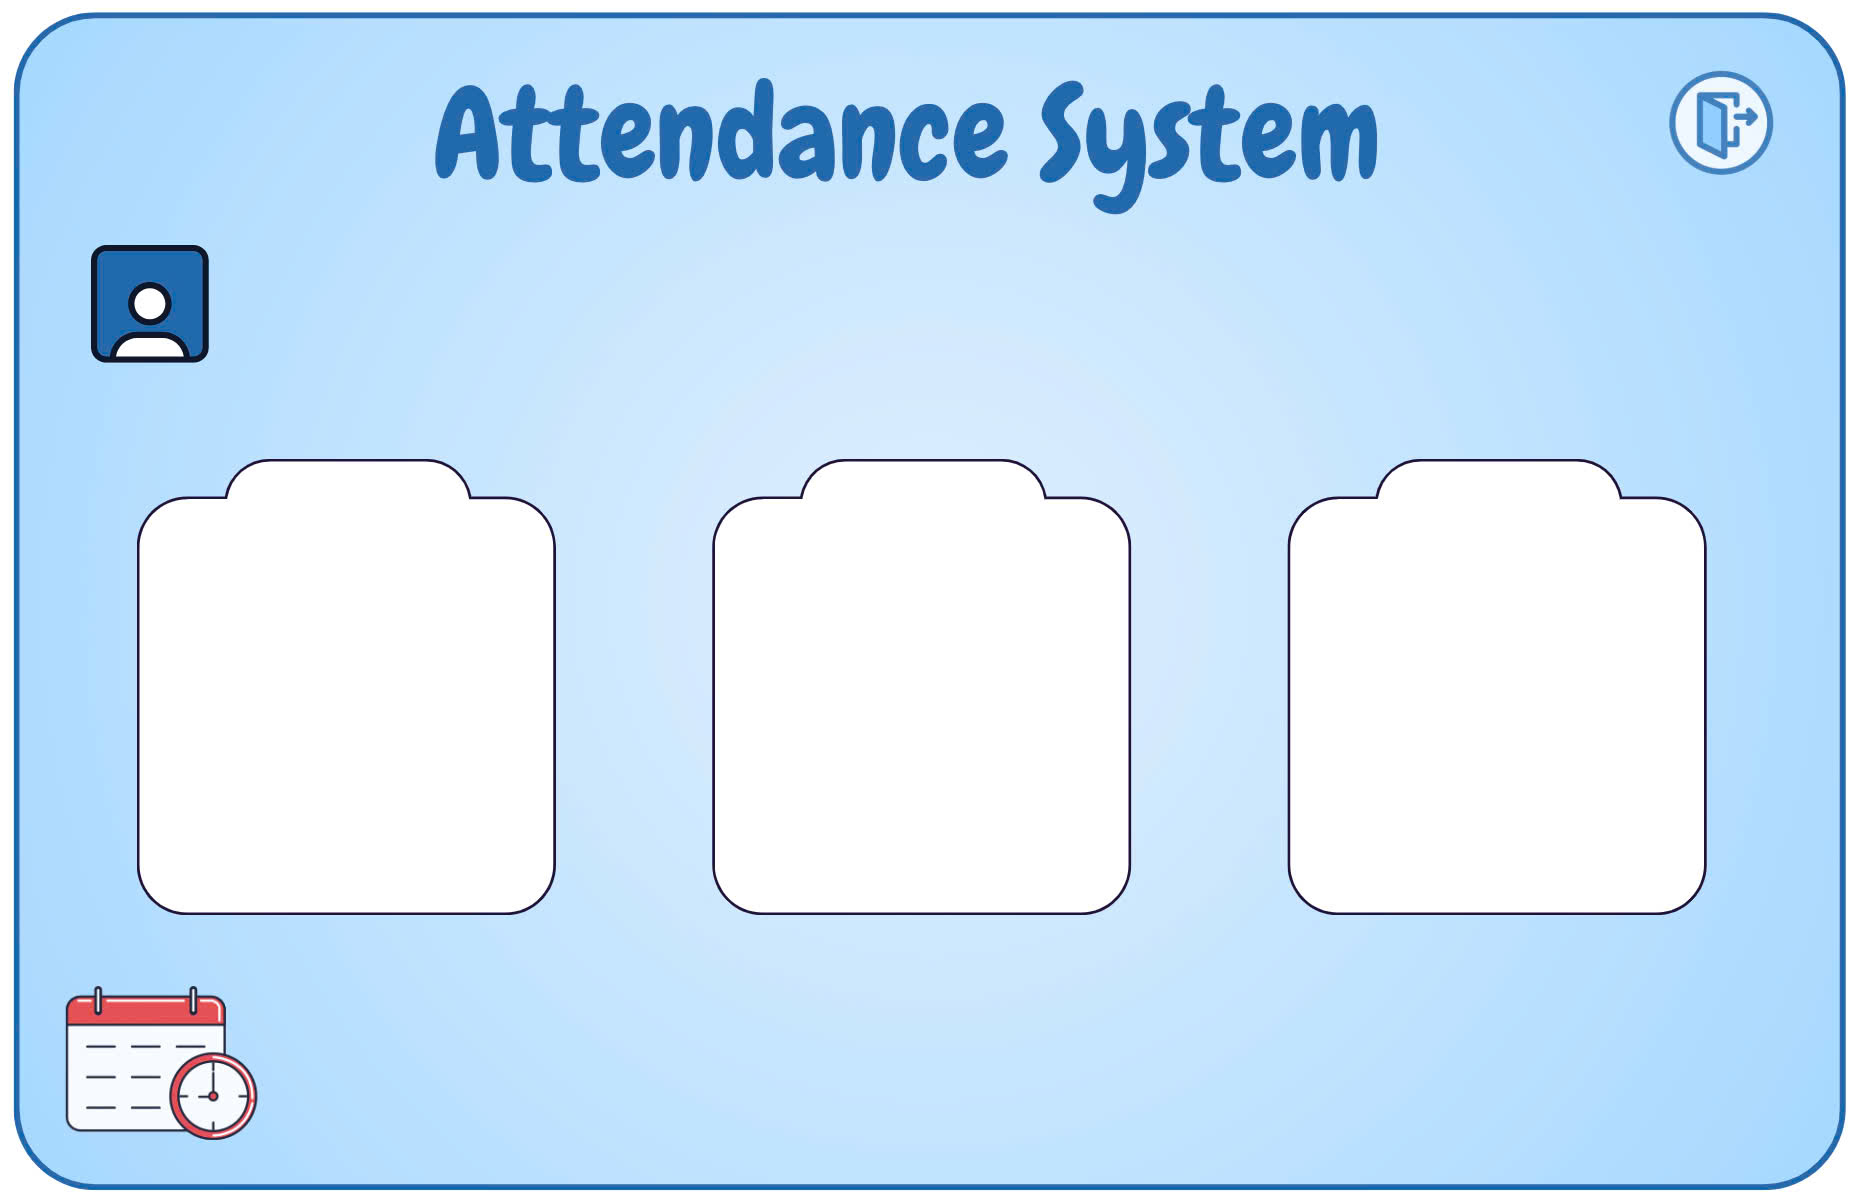
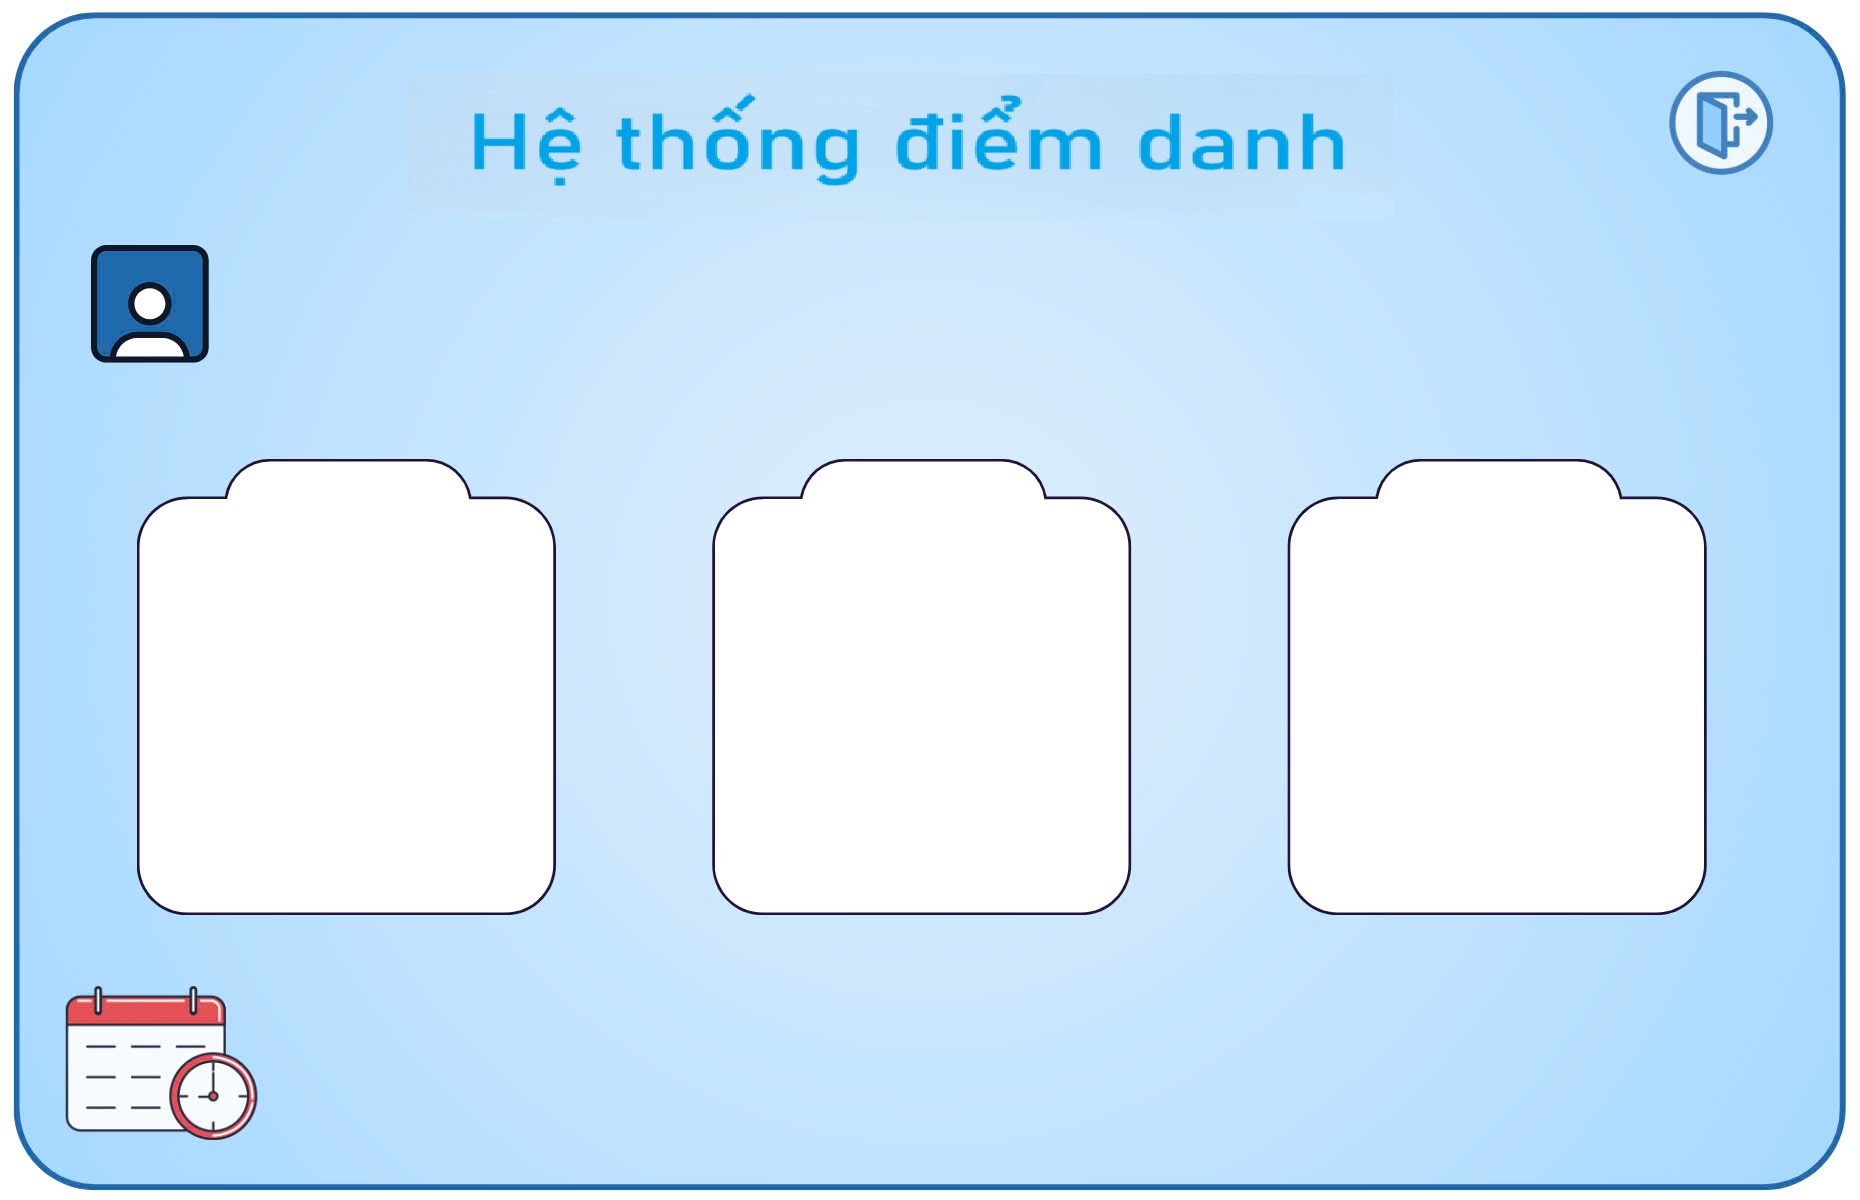
fix: convert UI to Vietnamese

Changed region(s): [[0.2183, 0.0617, 0.7484, 0.185]]

diff --git a/screen/home/home_teacher_screen.py b/screen/home/home_teacher_screen.py
@@ -3,7 +3,7 @@ from datetime import datetime
 from tkinter import *
 from PIL import ImageTk, Image
 from screen.student_view.student_view_screen import student_view
-from screen.manage_attendance.manage_attendance_abc import attendance
+from screen.manage_attendance.manage_attendance_screen1_3d_drawYellow import  attendance
 from screen.manage_attendance.statistic_screen import statisticExcel
 
 from screen.train_model.train_model_from_images_screen import traindata
@@ -20,7 +20,7 @@ class HomeScreenTeacher:
         self.teacher_name = self.get_teacher_name(self.teacher_id)
 
         self.root.geometry('925x600')
-        self.root.title('Facial Recognition Attendance System')
+        self.root.title('Hệ thống điểm danh nhận dạng khuôn mặt 3D')
 
         today = strftime('%d-%m-%Y')
 
@@ -50,7 +50,7 @@ class HomeScreenTeacher:
         self.update_date(lbl_date)
 
         #=== logout
-        btn_logout = Button(self.root, text="Log out", command=self.logout, font=("yu gothic ui", 20, "bold"), bg="white", fg="#57a1f8", borderwidth=0)
+        btn_logout = Button(self.root, text="Thoát", command=self.logout, font=("yu gothic ui", 20, "bold"), bg="white", fg="#57a1f8", borderwidth=0)
         btn_logout.place(x=817, y=92, width=90, height=23)
 
         #======= body
@@ -64,7 +64,7 @@ class HomeScreenTeacher:
         img_student = img_student.resize((150, 150), Image.Resampling.LANCZOS)
 
         self.img_studenttk = ImageTk.PhotoImage(img_student)
-        btn_student = Button(self.root, text="Student List", font=("yu gothic ui", 14, "bold"), command=lambda: self.student_view(self.root),
+        btn_student = Button(self.root, text="Danh sách sinh viên", font=("yu gothic ui", 14, "bold"), command=lambda: self.student_view(self.root),
                              image=self.img_studenttk, activebackground="white", bg="white", borderwidth=0,
                              compound="top")
         btn_student.place(x=73, y=255, width=194, height=194)
@@ -81,7 +81,7 @@ class HomeScreenTeacher:
         img_recognize = img_recognize.resize((140, 140), Image.Resampling.LANCZOS)
 
         self.img_recognizetk = ImageTk.PhotoImage(img_recognize)
-        btn_recognize = Button(self.root, text="Attendance", font=("yu gothic ui", 14, "bold"), command=self.attendance,
+        btn_recognize = Button(self.root, text="Điểm danh", font=("yu gothic ui", 14, "bold"), command=self.attendance,
                                image=self.img_recognizetk, activebackground="white", bg="white", borderwidth=0,
                                compound="top")
         btn_recognize.place(x=361, y=255, width=194, height=194)
@@ -98,7 +98,7 @@ class HomeScreenTeacher:
         img_report = img_report.resize((140, 140), Image.Resampling.LANCZOS)
 
         self.img_reporttk = ImageTk.PhotoImage(img_report)
-        btn_report = Button(self.root, text="Statistic", font=("yu gothic ui", 14, "bold"), command=self.open_statistic_window,
+        btn_report = Button(self.root, text="Thống kê", font=("yu gothic ui", 14, "bold"), command=self.open_statistic_window,
                             image=self.img_reporttk, activebackground="white", bg="white", borderwidth=0,
                             compound="top")
         btn_report.place(x=649, y=255, width=194, height=194)

diff --git a/screen/home/home_student_screen.py b/screen/home/home_student_screen.py
@@ -17,7 +17,7 @@ class HomeScreenStudent:
         self.student_name = self.get_student_name(self.student_id)
 
         self.root.geometry('925x600')
-        self.root.title('Facial Recognition Attendance System')
+        self.root.title('Hệ thống điểm danh nhận dạng khuôn mặt 3D')
 
         today = strftime('%d-%m-%Y')
 
@@ -47,7 +47,7 @@ class HomeScreenStudent:
         self.update_date(lbl_date)
 
         #=== logout
-        btn_logout = Button(self.root, text="Log out", command=self.logout, font=("yu gothic ui", 20, "bold"), bg="white", fg="#57a1f8", borderwidth=0)
+        btn_logout = Button(self.root, text="Thoát", command=self.logout, font=("yu gothic ui", 20, "bold"), bg="white", fg="#57a1f8", borderwidth=0)
         btn_logout.place(x=817, y=92, width=90, height=23)
 
         #======= body
@@ -61,7 +61,7 @@ class HomeScreenStudent:
         img_student = img_student.resize((150, 140), Image.Resampling.LANCZOS)
 
         self.img_studenttk = ImageTk.PhotoImage(img_student)
-        btn_student = Button(self.root, text="Student", font=("yu gothic ui", 14, "bold"), command=lambda: self.student_view(self.root),
+        btn_student = Button(self.root, text="Danh sách sinh viên", font=("yu gothic ui", 14, "bold"), command=lambda: self.student_view(self.root),
                              image=self.img_studenttk, activebackground="white", bg="white", borderwidth=0,
                              compound="top")
         btn_student.place(x=73, y=255, width=194, height=194)
@@ -78,7 +78,7 @@ class HomeScreenStudent:
         img_authentication = img_authentication.resize((140, 140), Image.Resampling.LANCZOS)
 
         self.img_authenticationtk = ImageTk.PhotoImage(img_authentication)
-        btn_authentication = Button(self.root, text="Authentication", font=("yu gothic ui", 14, "bold"), command=self.authentication_view,
+        btn_authentication = Button(self.root, text="Thu thập", font=("yu gothic ui", 14, "bold"), command=self.authentication_view,
                                image=self.img_authenticationtk, activebackground="white", bg="white", borderwidth=0,
                                compound="top")
         btn_authentication.place(x=361, y=255, width=194, height=194)
@@ -95,7 +95,7 @@ class HomeScreenStudent:
         img_report = img_report.resize((140, 140), Image.Resampling.LANCZOS)
 
         self.img_reporttk = ImageTk.PhotoImage(img_report)
-        btn_report = Button(self.root, text="Statistics", font=("yu gothic ui", 14, "bold"), command="",
+        btn_report = Button(self.root, text="Thống kê", font=("yu gothic ui", 14, "bold"), command="",
                             image=self.img_reporttk, activebackground="white", bg="white", borderwidth=0,
                             compound="top")
         btn_report.place(x=649, y=255, width=194, height=194)

diff --git a/screen/student_view/student_view_screen.py b/screen/student_view/student_view_screen.py
@@ -50,23 +50,23 @@ class student_view:
         self.right_frame.pack(side=tk.RIGHT, fill=tk.BOTH, expand=True)
 
         # Lecturer Name
-        self.lbl_teacher_name = tk.Label(self.left_frame, text="Lecturer: Pham Nguyen Khang", font=('Arial', 14, 'bold'), bg='#e3f2fd')
+        self.lbl_teacher_name = tk.Label(self.left_frame, text="Giáo viên : Pham Nguyen Khang", font=('Arial', 14, 'bold'), bg='#e3f2fd')
         self.lbl_teacher_name.pack(pady=10)
 
         # Search Section
         search_frame = tk.Frame(self.left_frame, bg='#e3f2fd')
         search_frame.pack(padx=10, pady=10, fill=tk.X)
 
-        tk.Label(search_frame, text="Select course:", font=('Arial', 12, 'bold'), bg='#e3f2fd').grid(row=0, column=0, padx=10, sticky='w')
+        tk.Label(search_frame, text="Chọn lớp :", font=('Arial', 12, 'bold'), bg='#e3f2fd').grid(row=0, column=0, padx=10, sticky='w')
         self.var_section_class = tk.StringVar()
         self.section_class_combobox = ttk.Combobox(search_frame, textvariable=self.var_section_class, width=12, font=('Arial', 12))
         self.section_class_combobox.grid(row=0, column=1, padx=10, sticky='w')
 
-        tk.Label(search_frame, text="Find students:", font=('Arial', 12, 'bold'), bg='#e3f2fd').grid(row=1, column=0, padx=10, pady=(10, 0), sticky='w')
+        tk.Label(search_frame, text="Nhập tên :", font=('Arial', 12, 'bold'), bg='#e3f2fd').grid(row=1, column=0, padx=10, pady=(10, 0), sticky='w')
         self.var_student_query = tk.StringVar()
         self.student_query_entry = tk.Entry(search_frame, textvariable=self.var_student_query, width=12, font=('Arial', 12))
         self.student_query_entry.grid(row=1, column=1, padx=10, pady=(10, 0), sticky='w')
-        search_button = tk.Button(search_frame, text="Search", font=('Arial', 12), bg='#bbdefb', command=self.search_by_student)
+        search_button = tk.Button(search_frame, text="Tìm", font=('Arial', 12), bg='#bbdefb', command=self.search_by_student)
         search_button.grid(row=1, column=2, padx=10, pady=(10, 0), sticky='w')
 
         # Student List Table
@@ -83,7 +83,7 @@ class student_view:
         self.tree.bind("<<TreeviewSelect>>", self.on_select)
 
         # Right Frame - Student Information
-        tk.Label(self.right_frame, text='Student Information', font=('Arial', 16, 'bold'), bg='#e3f2fd').place(x=20, y=20)
+        tk.Label(self.right_frame, text='Thông tin sinh viên', font=('Arial', 16, 'bold'), bg='#e3f2fd').place(x=20, y=20)
 
         # Entry Fields
         self.entry_id = tk.Entry(self.right_frame, font=('Arial', 14), width=30)

diff --git a/screen/login/login_screen.py b/screen/login/login_screen.py
@@ -12,7 +12,7 @@ from screen.home.home_teacher_screen import HomeScreenTeacher
 class LoginWindow:
     def __init__(self, root):
         self.root = root
-        self.root.title('Login')
+        self.root.title('Đăng nhập')
         self.root.geometry('925x600+300+200')
         self.root.configure(bg='#fff')
         self.root.resizable(False, False)
@@ -31,14 +31,14 @@ class LoginWindow:
         self.ent_user = Entry(self.root, textvariable=self.var_username, width=15, fg='black', border=0, bg='white',
                               font=('Microsoft YaHei UI Light', 20))
         self.ent_user.place(x=444, y=279)
-        self.ent_user.insert(0, 'Username')
+        self.ent_user.insert(0, 'Tài khoản')
 
         self.ent_code = Entry(self.root, textvariable=self.var_password, width=15, fg='black', border=0, bg='white',
                               font=('Microsoft YaHei UI Light', 20), show="*")
         self.ent_code.place(x=444, y=353)
-        self.ent_code.insert(0, 'Password')
+        self.ent_code.insert(0, 'Mật khẩu')
 
-        btn_login = Button(self.root, width=15, pady=7, text='Log in', bg='#57a1f8', border=0, command=self.login)
+        btn_login = Button(self.root, width=15, pady=7, text='Đăng nhập', bg='#57a1f8', border=0, command=self.login)
         btn_login.place(x=679, y=498)
 
         self.ent_user.bind("<FocusIn>", self.clear_username)

diff --git a/screen/manage_attendance/statistic_screen.py b/screen/manage_attendance/statistic_screen.py
@@ -1,6 +1,6 @@
 import os
 import tkinter as tk
-from tkinter import ttk, filedialog, messagebox
+from tkinter import ttk, messagebox
 import pandas as pd
 
 os.chdir(os.path.dirname(__file__))
@@ -17,7 +17,7 @@ class statisticExcel:
         print("Current Working Directory:", os.getcwd())
 
         # Tạo Combobox để chọn lớp
-        tk.Label(self.root, text="Select Class:", font=("Arial", 14, "bold"), bg="#E3F2FD").pack(pady=10)
+        tk.Label(self.root, text="Chọn lớp học :", font=("Arial", 14, "bold"), bg="#E3F2FD").pack(pady=10)
 
         self.class_var = tk.StringVar()
         self.class_combobox = ttk.Combobox(self.root, textvariable=self.class_var, font=("Arial", 12))
